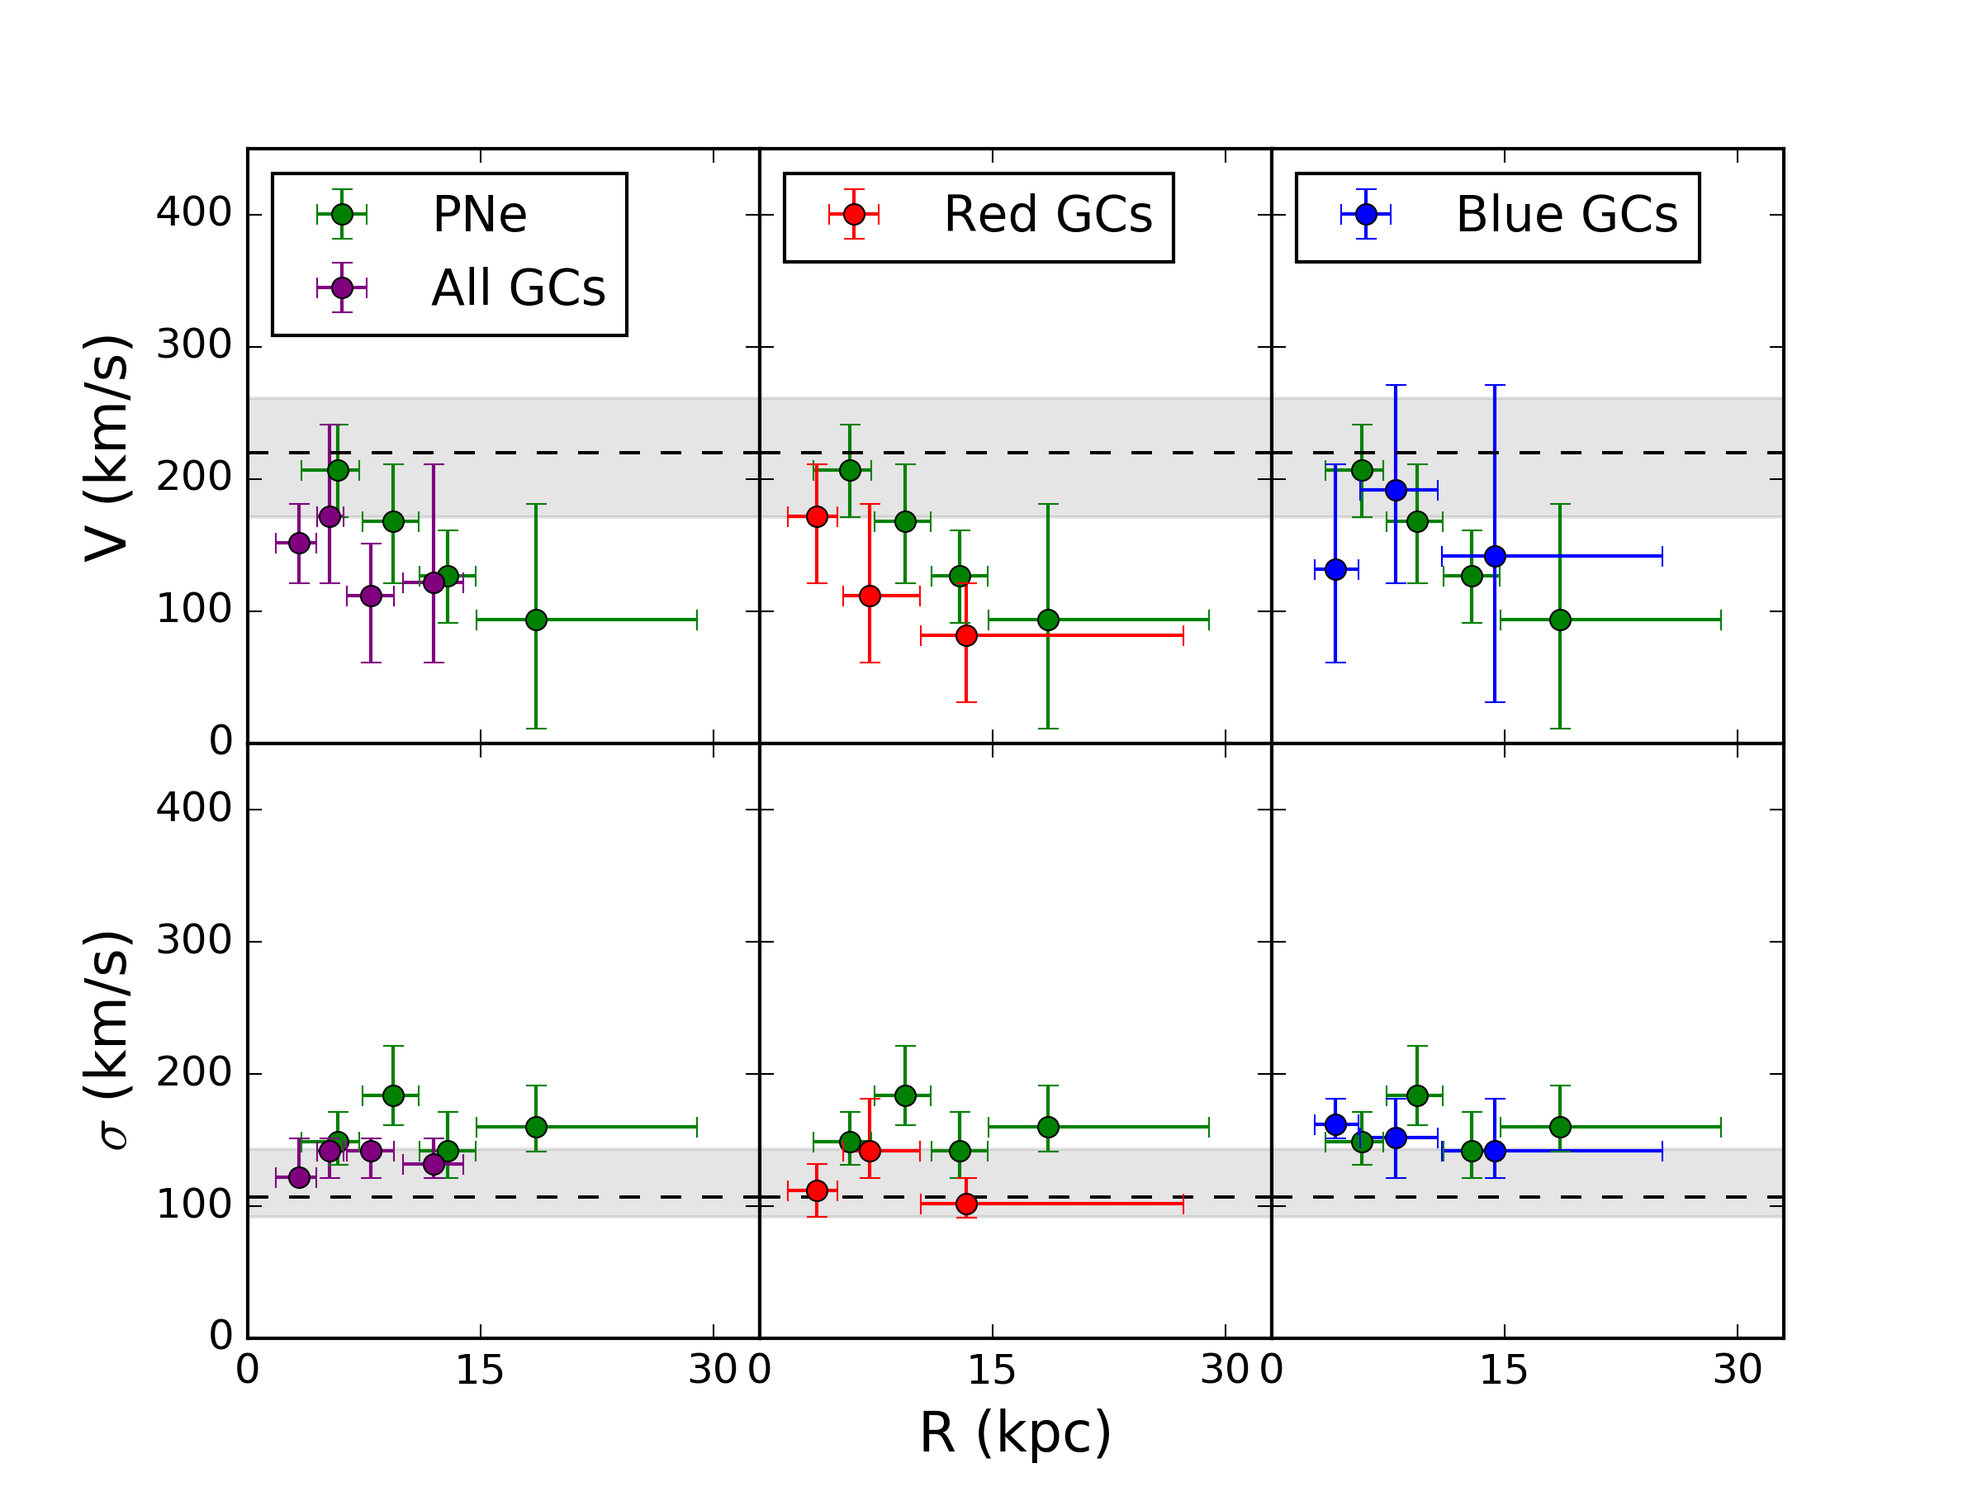
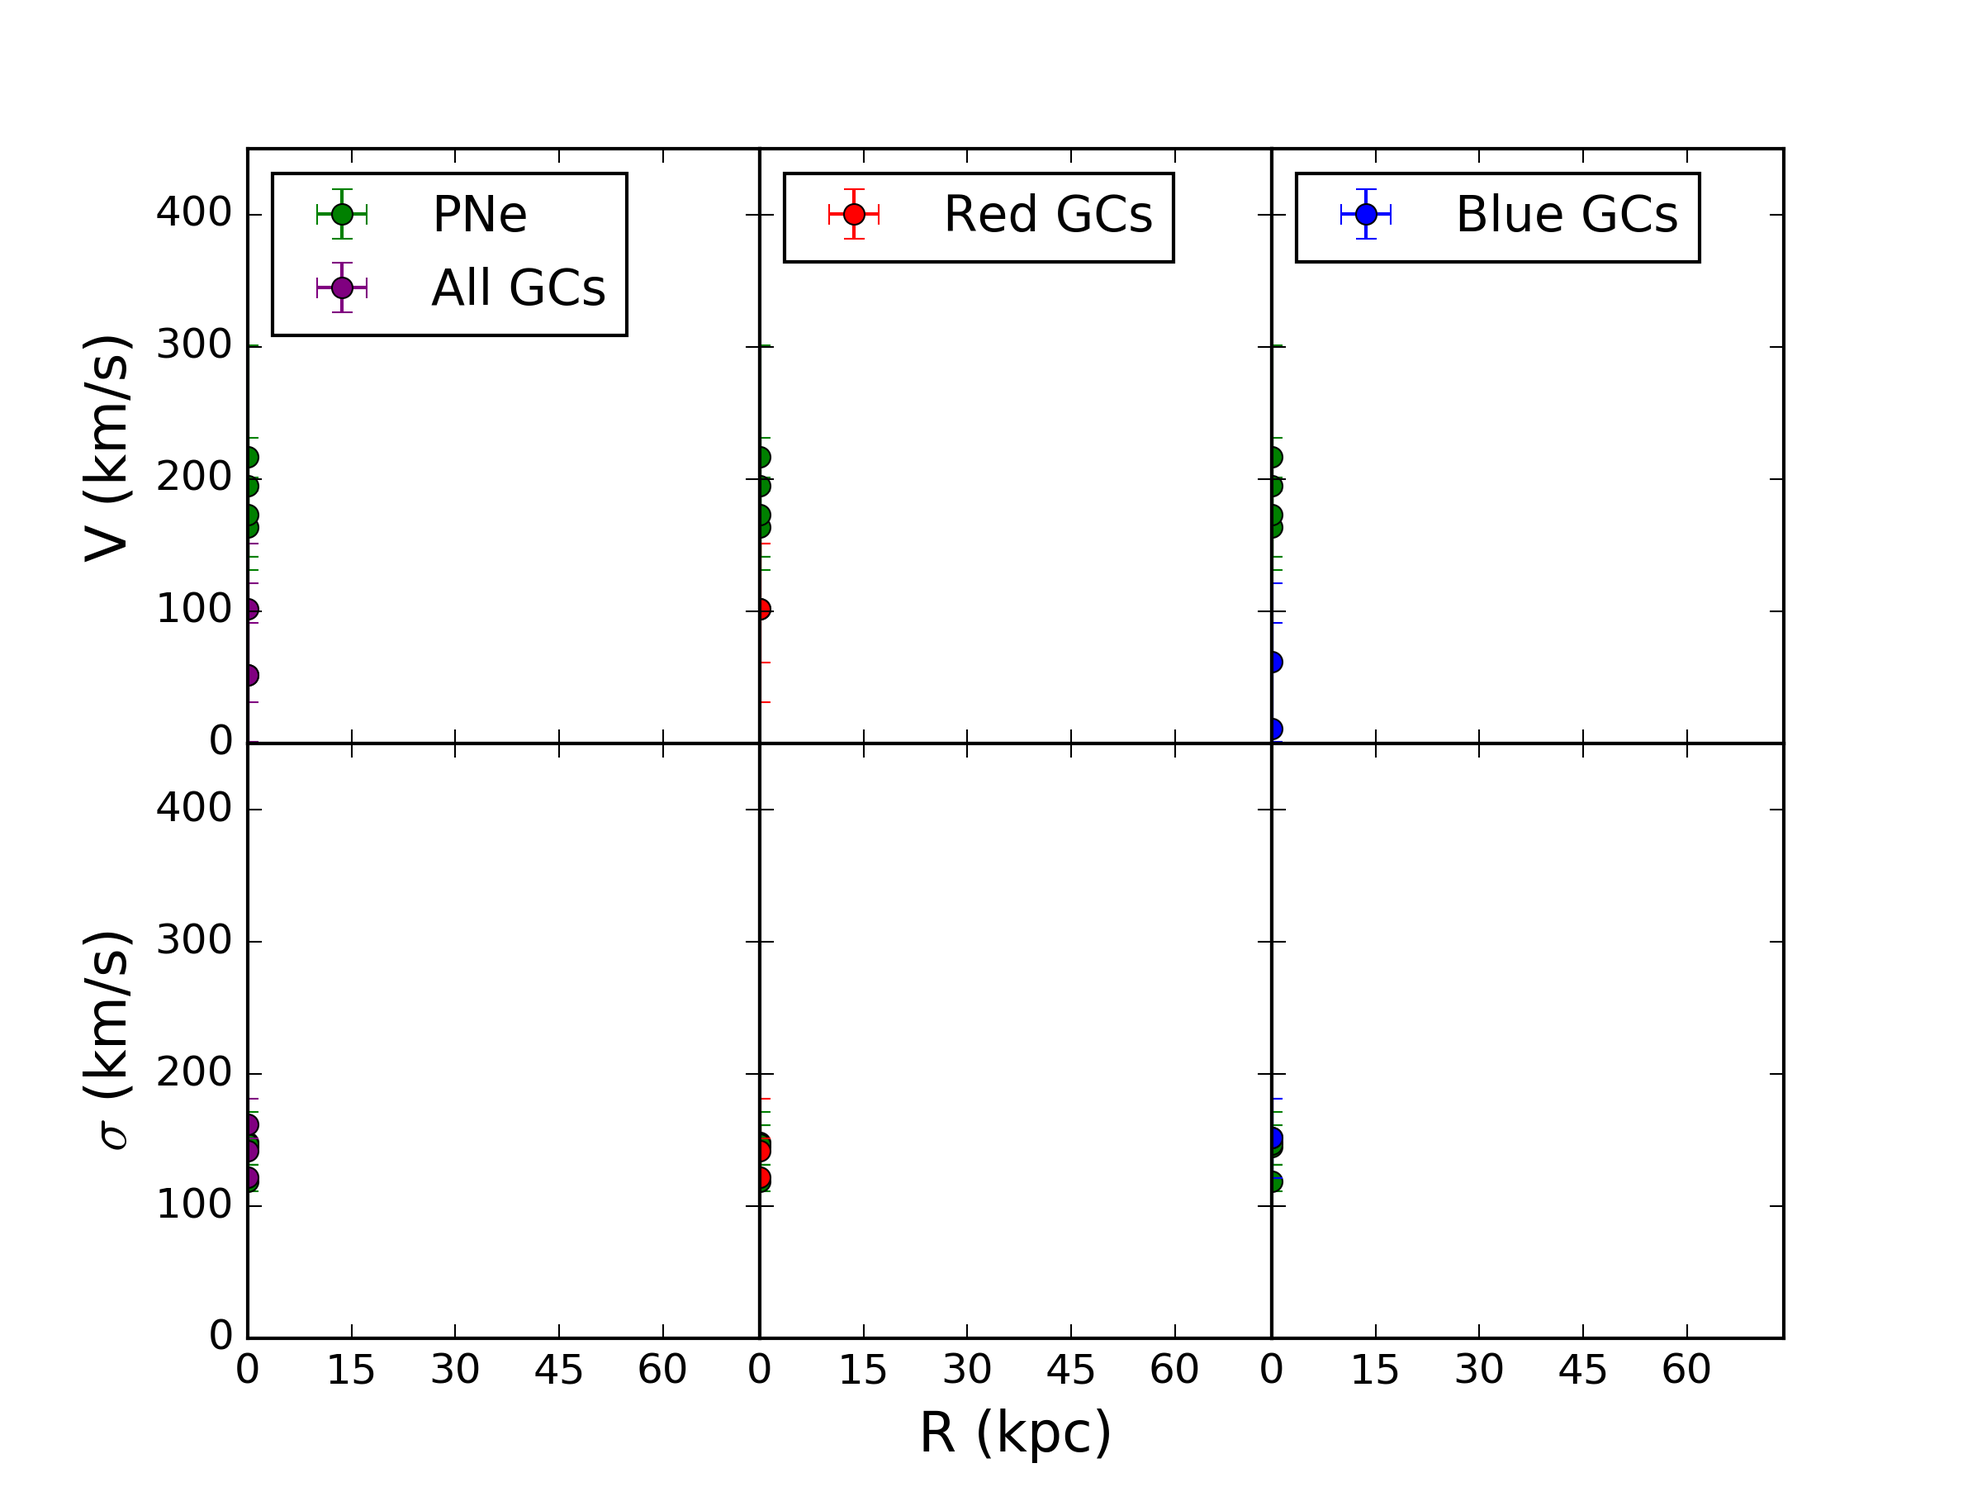
new changes on some plots

diff --git a/2.5/plots_from_like.py b/2.5/plots_from_like.py
@@ -308,12 +308,12 @@ def atokpc(R, d):
 RA, DEC, ins = read_gc(gal)  
 d = ins[4]
 xaux = np.linspace(0, 80, 100)
-v = np.full(100,ins[6])
-vmax = ins[7]
-vmin = ins[8]
-s = np.full(100, ins[9])
-smax = ins[10]
-smin = ins[11]
+#v = np.full(100,ins[6])
+#vmax = ins[7]
+#vmin = ins[8]
+#s = np.full(100, ins[9])
+#smax = ins[10]
+#smin = ins[11]
 
 if op=='y':
 
@@ -322,8 +322,8 @@ if op=='y':
 
         
     plot1 = plt.subplot(2, 1, 1)
-    plt.fill_between(xaux, v-vmin, v+vmax, color='gray', alpha=0.2)
-    plt.plot((0,16), (v,v), 'k--', lw=0.5)
+#    plt.fill_between(xaux, v-vmin, v+vmax, color='gray', alpha=0.2)
+#    plt.plot((0,16), (v,v), 'k--', lw=0.5)
     plt.errorbar(pR, pV, marker='o', xerr=[pRmin, pRmax], yerr=[pVerr_min, pVerr_max], color='green', linestyle='None', label='PNe')    
     plt.errorbar(gR, gV, marker='o', xerr=[gRmin, gRmax], yerr=[gVerr_min, gVerr_max], color='purple', linestyle='None', label='All GCs') 
     plt.ylabel('V (km/s)', fontdict=font)
@@ -332,8 +332,8 @@ if op=='y':
     plt.legend(loc='upper left', numpoints=1)
     
     plot4 = plt.subplot(2, 1, 2)
-    plt.fill_between(xaux, s-smin, s+smax, color='gray', alpha=0.2)
-    plt.plot((0,16), (s,s), 'k--', lw=0.5)
+#    plt.fill_between(xaux, s-smin, s+smax, color='gray', alpha=0.2)
+#    plt.plot((0,16), (s,s), 'k--', lw=0.5)
     plt.errorbar(pR, psigma ,marker='o', xerr=[pRmin, pRmax], yerr=[psigmaerr_min, psigmaerr_max], color='green', linestyle='None')
     plt.errorbar(gR, gsigma ,marker='o', xerr=[gRmin, gRmax], yerr=[gsigmaerr_min, gsigmaerr_max], color='purple', linestyle='None')
     #plt.plot((0,16), (ins[6],ins[6]), 'k--')
@@ -412,8 +412,8 @@ else:
     pV, pVerr_min, pVerr_max, psigma, psigmaerr_min, psigmaerr_max, pR, pRmin, pRmax = load_like_uni('PNe')
     
     plot1 = plt.subplot(2, 3, 1)
-    plt.fill_between(xaux, v-vmin, v+vmax, color='gray', alpha=0.2)
-    plt.plot((0,xmax), (v,v), 'k--', lw=0.5)
+#    plt.fill_between(xaux, v-vmin, v+vmax, color='gray', alpha=0.2)
+#    plt.plot((0,xmax), (v,v), 'k--', lw=0.5)
     plt.errorbar(pR, pV, marker='o', xerr=[pRmin, pRmax], yerr=[pVerr_min, pVerr_max], color='green', linestyle='None', label='PNe') 
     plt.errorbar(R, V, marker='o', xerr=[Rmin, Rmax], yerr=[Verr_min, Verr_max], color='purple', linestyle='None', label='All GCs')
     #plt.plot((ins[6],ins[6]), (0,450), 'k--')   
@@ -423,8 +423,8 @@ else:
     plt.legend(loc='upper left', numpoints=1)
     
     plot2 = plt.subplot(2, 3, 2)
-    plt.fill_between(xaux, v-vmin, v+vmax, color='gray', alpha=0.2)
-    plt.plot((0,xmax), (v,v), 'k--', lw=0.5)    
+#    plt.fill_between(xaux, v-vmin, v+vmax, color='gray', alpha=0.2)
+#    plt.plot((0,xmax), (v,v), 'k--', lw=0.5)    
     plt.errorbar(pR, pV, marker='o', xerr=[pRmin, pRmax], yerr=[pVerr_min, pVerr_max], color='green', linestyle='None') 
     plt.errorbar(R_r, V_r,marker='o', xerr=[Rmin_r, Rmax_r], yerr=[Verr_r_min, Verr_r_max], color='red', linestyle='None', label='Red GCs')
     #plt.plot((ins[6],ins[6]), (0,450), 'k--')
@@ -433,8 +433,8 @@ else:
     plt.legend(loc='upper left', numpoints=1)
     
     plot3 = plt.subplot(2, 3, 3)
-    plt.fill_between(xaux, v-vmin, v+vmax, color='gray', alpha=0.2)
-    plt.plot((0,xmax), (v,v), 'k--', lw=0.5)    
+#    plt.fill_between(xaux, v-vmin, v+vmax, color='gray', alpha=0.2)
+#    plt.plot((0,xmax), (v,v), 'k--', lw=0.5)    
     plt.errorbar(pR, pV, marker='o', xerr=[pRmin, pRmax], yerr=[pVerr_min, pVerr_max], color='green', linestyle='None') 
     plt.errorbar(R_b, V_b,marker='o', xerr=[Rmin_b, Rmax_b], yerr=[Verr_b_min, Verr_b_max], color='blue', linestyle='None', label='Blue GCs')
     #plt.plot((ins[6],ins[6]), (0,450), 'k--')
@@ -443,8 +443,8 @@ else:
     plt.legend(loc='upper left', numpoints=1)
     
     plot4 = plt.subplot(2, 3, 4)
-    plt.fill_between(xaux, s-smin, s+smax, color='gray', alpha=0.2)
-    plt.plot((0,xmax), (s,s), 'k--', lw=0.5)    
+#    plt.fill_between(xaux, s-smin, s+smax, color='gray', alpha=0.2)
+#    plt.plot((0,xmax), (s,s), 'k--', lw=0.5)    
     plt.errorbar(pR, psigma ,marker='o', xerr=[pRmin, pRmax], yerr=[psigmaerr_min, psigmaerr_max], color='green', linestyle='None')
     plt.errorbar(R, sigma,marker='o', xerr=[Rmin, Rmax], yerr=[sigmaerr_min, sigmaerr_max], color='purple', linestyle='None')
     #plt.plot((ins[6],ins[6]), (0,450), 'k--')
@@ -453,8 +453,8 @@ else:
     plt.xlim(0, xmax)
     
     plot5 = plt.subplot(2, 3, 5)
-    plt.fill_between(xaux, s-smin, s+smax, color='gray', alpha=0.2)
-    plt.plot((0,xmax), (s,s), 'k--', lw=0.5)    
+#    plt.fill_between(xaux, s-smin, s+smax, color='gray', alpha=0.2)
+#    plt.plot((0,xmax), (s,s), 'k--', lw=0.5)    
     plt.errorbar(pR, psigma ,marker='o', xerr=[pRmin, pRmax], yerr=[psigmaerr_min, psigmaerr_max], color='green', linestyle='None')
     plt.errorbar(R_r, sigma_r,marker='o', xerr=[Rmin_r, Rmax_r], yerr=[sigmaerr_r_min, sigmaerr_r_max], color='red', linestyle='None')
     #plt.plot((ins[6],ins[6]), (0,450), 'k--')
@@ -463,8 +463,8 @@ else:
     plt.xlim(0, xmax)
     
     plot6 = plt.subplot(2, 3, 6)
-    plt.fill_between(xaux, s-smin, s+smax, color='gray', alpha=0.2)
-    plt.plot((0,xmax), (s,s), 'k--', lw=0.5)    
+#    plt.fill_between(xaux, s-smin, s+smax, color='gray', alpha=0.2)
+#    plt.plot((0,xmax), (s,s), 'k--', lw=0.5)    
     plt.errorbar(pR, psigma ,marker='o', xerr=[pRmin, pRmax], yerr=[psigmaerr_min, psigmaerr_max], color='green', linestyle='None')
     plt.errorbar(R_b, sigma_b,marker='o', xerr=[Rmin_b, Rmax_b], yerr=[sigmaerr_b_min, sigmaerr_b_max], color='blue', linestyle='None')
     #plt.plot((ins[6],ins[6]), (0,450), 'k--')

diff --git a/2.5/vsigma.py b/2.5/vsigma.py
@@ -111,17 +111,17 @@ def vsigma_uni():
         return Vos, Vos_max, Vos_min, R
         
 def atokpc(R):
-    
+    from astropy.cosmology import WMAP9 as cosmo
     galinput = 'N'+gal+'input.dat'
     galinput = '/home/emilio/MLE/Galaxies/'+gal+'/'+galinput
     inp = [x.split(' ')[0] for x in open(galinput).readlines()]
-    d = float(inp[11])
-    Dkpc = (d*np.pi*R)/648
+    z = float(inp[11])
+    Dkpc = cosmo.kpc_proper_per_arcmin(z).value*(R/60)
     return Dkpc   
     
 #how to proceed with error propagation with assymetrical errorbars? let's proceed without it for now:
     
-gals = ['2768', '3115']
+gals = ['1023', '2768', '3115']
 
 Vs = []
 Vsmax = []
@@ -165,52 +165,65 @@ Vsmax.append(Vos_max)
 Vsmin.append(Vos_min)
 Rs.append(R)
 
-
-f, ax = plt.subplots(3, 3, sharex=True,sharey=True)
-         
-for i in range(0, 3):   
-    
-    ax[i][0].errorbar(Rs[i], Vs[i], yerr=[Vsmin[i], Vsmax[i]], markerfacecolor='none', markersize=10, ecolor='purple', markeredgecolor='purple', marker='o', linestyle='none')
+f, ax = plt.subplots(4, 3, sharex=True,sharey=True)
+loc = plticker.MultipleLocator(base = 1.1)
+loc2 = plticker.MultipleLocator(base = 5.0)      
+for i in range(0, 4):   
+    ax[i][0].errorbar(Rs[i], Vs[i], yerr=[Vsmin[i], Vsmax[i]], markerfacecolor='none', markersize=10, ecolor='purple', markeredgecolor='purple', marker='o', linestyle='none', mew=2)
     ax[i][0].set_ylim(0.0, 5.0)
-
-for i in range(0, 2):
-
-    ax[i][1].errorbar(Rsreds[i], Vsreds[i], yerr=[Vsredsmin[i], Vsredsmax[i]], markerfacecolor='none',ecolor='red', markersize=10,markeredgecolor='red', marker='o', linestyle='none')
+    if i != 3:
+        plt.setp(ax[i][0].get_xticklabels(), visible=False)    
+for i in range(0, 3):
+    ax[i][1].errorbar(Rsreds[i], Vsreds[i], yerr=[Vsredsmin[i], Vsredsmax[i]], markerfacecolor='none',ecolor='red', markersize=10,markeredgecolor='red', marker='o', linestyle='none', mew=2)
+    if i != 2:
+        plt.setp(ax[i][1].get_xticklabels(), visible=False)
+    plt.setp(ax[i][1].get_yticklabels(), visible=False) 
     
-for i in range(0, 2):
+for i in range(0, 3):
+    ax[i][2].errorbar(Rsblues[i], Vsblues[i], yerr=[Vsbluesmin[i], Vsbluesmax[i]], markerfacecolor='none',ecolor='blue', markersize=10,markeredgecolor='blue', marker='o', linestyle='none', mew=2)
+    if i != 2:    
+        plt.setp(ax[i][2].get_xticklabels(), visible=False) 
+    plt.setp(ax[i][2].get_yticklabels(), visible=False)     
     
-    ax[i][2].errorbar(Rsblues[i], Vsblues[i], yerr=[Vsbluesmin[i], Vsbluesmax[i]], markerfacecolor='none',ecolor='blue', markersize=10,markeredgecolor='blue', marker='o', linestyle='none')
-    
-plt.setp(ax[0][0].get_xticklabels(), visible=False)  
-plt.setp(ax[0][1].get_xticklabels(), visible=False)
-plt.setp(ax[0][1].get_yticklabels(), visible=False) 
-plt.setp(ax[1][1].get_yticklabels(), visible=False)
-plt.setp(ax[1][2].get_yticklabels(), visible=False) 
-plt.setp(ax[1][1].get_xticklabels(), visible=True)
-plt.setp(ax[1][2].get_xticklabels(), visible=True)  
-plt.setp(ax[0][2].get_xticklabels(), visible=False)
-plt.setp(ax[0][2].get_yticklabels(), visible=False) 
+#plt.setp(ax[0][0].get_xticklabels(), visible=False)  
+#plt.setp(ax[0][1].get_xticklabels(), visible=False)
+#plt.setp(ax[0][1].get_yticklabels(), visible=False) 
+#plt.setp(ax[1][1].get_yticklabels(), visible=False)
+#plt.setp(ax[1][2].get_yticklabels(), visible=False) 
+#plt.setp(ax[1][1].get_xticklabels(), visible=True)
+#plt.setp(ax[1][2].get_xticklabels(), visible=True)  
+#plt.setp(ax[0][2].get_xticklabels(), visible=False)
+#plt.setp(ax[0][2].get_yticklabels(), visible=False) 
 loc = plticker.MultipleLocator(base = 1.1)
 loc2 = plticker.MultipleLocator(base = 5.0)
 
-
 ax[1][0].set_ylabel('$V/\sigma$', fontsize=20)
 
-ax[1][2].set_xlabel('$R(kpc)$', fontsize=20)
-ax[2][0].set_xlabel('$R(kpc)$', fontsize=20)
-ax[1][1].set_xlabel('$R(kpc)$', fontsize=20)
-
+ax[3][0].set_xlabel('$R(kpc)$', fontsize=20)
+ax[2][1].set_xlabel('$R(kpc)$', fontsize=20)
+ax[2][2].set_xlabel('$R(kpc)$', fontsize=20)
 
 for i in range(0, 3):
     #ax[0][i].set_ylim(-1, 4)
     ax[0][i].yaxis.set_major_locator(loc)
     ax[0][i].xaxis.set_major_locator(loc2)
-    ax[0][i].set_xticks((5, 10, 15, 20))
+    ax[0][i].set_xticks((5, 10, 15, 20))    
     ax[0][i].minorticks_on()
+
+plt.setp(ax[2][1].get_xticklabels(), visible=True)
+plt.setp(ax[2][2].get_xticklabels(), visible=True)
+ax[0][2].text(0.5, 0.8, 'NGC 1023', transform = ax[0][2].transAxes)
+ax[1][2].text(0.5, 0.8, 'NGC 2768', transform = ax[1][2].transAxes)
+ax[2][2].text(0.5, 0.8, 'NGC 3115', transform = ax[2][2].transAxes)
+ax[3][0].text(0.5, 0.8, 'NGC 7457', transform = ax[3][0].transAxes)
+ax[0][0].text(0.2, 0.8, 'All GCs', transform = ax[0][0].transAxes, fontsize=9)  
+ax[0][1].text(0.2, 0.8, 'Red GCs', transform = ax[0][1].transAxes, fontsize=9) 
+ax[0][2].text(0.2, 0.8, 'Blue GCs', transform = ax[0][2].transAxes, fontsize=9)
+
 
 plt.subplots_adjust(hspace=.0001)
 plt.subplots_adjust(wspace=.0001)
-f.delaxes(ax[2][1])
-f.delaxes(ax[2][2])
+f.delaxes(ax[3][1])
+f.delaxes(ax[3][2])
 plt.savefig('vsigma.png', dpi=300, format='png')
 plt.show()

diff --git a/2.3/fig1_1023.py b/2.3/fig1_1023.py
@@ -1,7 +1,7 @@
 from matplotlib import pyplot as plt
 import matplotlib as mpl
-mpl.rcParams['font.size']=14
-mpl.rcParams['legend.markerscale']=2.0
+mpl.rcParams['font.size']=30
+mpl.rcParams['legend.markerscale']=3.0
 from astropy.io import fits
 from astropy.wcs import WCS
 from astropy.coordinates import SkyCoord
@@ -51,26 +51,41 @@ def get_rej():
     RA = np.loadtxt('/home/emilio/MLE/2.5/N'+gal+'/prob_out.dat', usecols=(0,))
     DEC = np.loadtxt('/home/emilio/MLE/2.5/N'+gal+'/prob_out.dat', usecols=(1,))
     like = np.loadtxt('/home/emilio/MLE/2.5/N'+gal+'/prob_out.dat', usecols=(8,))
+    V = np.loadtxt('/home/emilio/MLE/2.5/N'+gal+'/prob_out.dat', usecols=(4,))
+    colf = np.loadtxt('/home/emilio/MLE/2.5/N'+gal+'/prob_out.dat', usecols=(7,))
     
     RArej = []
     DECrej = []
     RAc = []
-    DECc = []    
+    DECc = []
+    Vrej = []
+    Vconf = []   
+    colrej = []
     
     for i in range(0, len(RA)):
         if like[i]==5.00:
             RArej.append(RA[i])
             DECrej.append(DEC[i])
+            Vrej.append(V[i])
+            colrej.append(colf[i])
         else:
             RAc.append(RA[i])
             DECc.append(DEC[i])
+            Vconf.append(V[i])
 
+    with open('rej_cat3115.dat', 'w') as rejcat:
+            for i in range(0, len(RArej)):
+                print >>rejcat, RArej[i], DECrej[i], Vrej[i], colrej[i]
+            
+    plt.hist(colrej, alpha=1)
+    plt.hist(colf, alpha=0.2)
+    plt.show()        
     RArej = np.asarray(RArej)
     DECrej = np.asarray(DECrej)
     RAc = np.asarray(RAc)
     DECc = np.asarray(DECc)
 
-    return RArej, DECrej, RAc, DECc
+    return RArej, DECrej, RAc, DECc, Vrej, Vconf
 
 gal = raw_input('Enter the galaxy number: ')
 galinput = galaxy_inputs(gal)
@@ -100,7 +115,7 @@ if op3 == 'y':
     ra_star = []
     dec_star = []
 if op4 == 'y':
-    RAr, DECr, RAgc, DECgc = get_rej()
+    RAr, DECr, RAgc, DECgc, v_rej, v_conf = get_rej()
     coordsGCrej = zip(RAr, DECr)
     coordsGCconf = zip(RAgc, DECgc)
     ra_rej = []
@@ -152,16 +167,16 @@ if op == 'y' and op2 == 'y' and op3 == 'y':
     plt.plot(ra, dec, marker='o',markerfacecolor='None', linestyle='none', markeredgewidth=1, markeredgecolor='magenta', label='GCs')
     plt.plot(ra_star, dec_star, marker='s', color='orange', markeredgewidth=1, markeredgecolor='orange',markerfacecolor='None', linestyle='none', label='Stars')
     plt.plot(ra_pne, dec_pne, marker='o', markeredgewidth=1,markeredgecolor='green',markerfacecolor='None',linestyle='none', label='PNe')
-    plt.legend(loc='lower right')
-    plt.xlabel('RA')
-    plt.ylabel('DEC')
+    plt.legend(loc='lower right', numpoints=1, fontsize=500)
+    plt.xlabel('RA', fontsize=500)
+    plt.ylabel('DEC', fontsize=500)
     plt.show()
 
 if op == 'y' and op2 == 'y' and op3 != 'y':
     allgc = plt.subplot(1,1,1, projection=wcs)
     plt.imshow(hdu.data, origin='lower',cmap='gray_r') 
-    plt.plot(ra, dec, marker='o',markerfacecolor='None', linestyle='none', markeredgewidth=3, markeredgecolor='magenta', label='GCs')
-    plt.plot(ra_pne, dec_pne, marker='o', markeredgewidth=2,markeredgecolor='green',markerfacecolor='None',linestyle='none', label='PNe')
+    plt.plot(ra, dec, marker='o', ms=10,markerfacecolor='None', linestyle='none', markeredgewidth=3, markeredgecolor='magenta', label='GCs')
+    plt.plot(ra_pne, dec_pne, marker='o', ms=10, markeredgewidth=2,markeredgecolor='green',markerfacecolor='None',linestyle='none', label='PNe')
     plt.legend(loc='lower right', numpoints=1)
     plt.xlabel('RA')
     plt.ylabel('DEC')
@@ -188,9 +203,12 @@ if op == 'y' and op2 != 'y' and op3 != 'y':
 if op4=='y':
     allgc = plt.subplot(1,1,1, projection=wcs)
     plt.imshow(hdu.data, origin='lower',cmap='gray_r') #you can change the contrast in the cmap options.
-    plt.plot(ra_conf, dec_conf, marker='o',markerfacecolor='None', linestyle='none', markeredgewidth=1, markeredgecolor='black', label='All GCs')
-    plt.plot(ra_rej, dec_rej, marker='h',ms=8,markerfacecolor='red', linestyle='none', markeredgewidth=1, markeredgecolor='white', label='Rejected GCs')    
-    plt.legend(loc='lower right', prop={'size':10})
+    #plt.plot(ra_conf, dec_conf, marker='o',markerfacecolor='None', linestyle='none', markeredgewidth=1, markeredgecolor='black', label='All GCs')
+    plt.scatter(ra_rej, dec_rej, c=v_rej, marker='h', s=60, label='Rejected GCs', vmin=min(v_rej)+350, vmax=max(v_rej)-150)    
+    #plt.scatter(ra_conf, dec_conf, c=v_conf, marker='h', s=60, label='Rejected GCs', vmin=min(v_rej), vmax=max(v_rej))
+    #plt.legend(loc='lower right', prop={'size':10}, numpoints=1)
+    cb = plt.colorbar(fraction=0.05)
+    cb.set_label('$Velocity $(km/s)')
     plt.xlabel('RA')
     plt.ylabel('DEC')
     plt.show()

diff --git a/2.2/bin_functions.py b/2.2/bin_functions.py
@@ -372,12 +372,12 @@ def read_gc(gal):
     i = float(inp[2])*u.deg
     pa = float(inp[3])*u.deg
     d = float(inp[11])*u.Mpc
-    vdisk_pne = float(inp[13])
-    vmax = float(inp[14])
-    vmin = float(inp[15])
-    s_sph_pne = float(inp[16])
-    s_max = float(inp[17])
-    s_min = float(inp[18])
+#    vdisk_pne = float(inp[13])
+#    vmax = float(inp[14])
+#    vmin = float(inp[15])
+#    s_sph_pne = float(inp[16])
+#    s_max = float(inp[17])
+#    s_min = float(inp[18])
     #re = float(inp[12])
     
     RA = np.loadtxt(galcat, usecols=(1,))
@@ -385,8 +385,8 @@ def read_gc(gal):
     RA = RA*u.deg
     DEC = DEC*u.deg
     
-    #inps = [RAgal, DECgal, i, pa, d, c_sep, re]
-    inps = [RAgal, DECgal, i, pa, d, c_sep, vdisk_pne, vmax, vmin, s_sph_pne, s_max, s_min]
+    inps = [RAgal, DECgal, i, pa, d, c_sep]
+    #inps = [RAgal, DECgal, i, pa, d, c_sep, vdisk_pne, vmax, vmin, s_sph_pne, s_max, s_min]
     return RA, DEC, inps
     
 def read_pne(gal):
